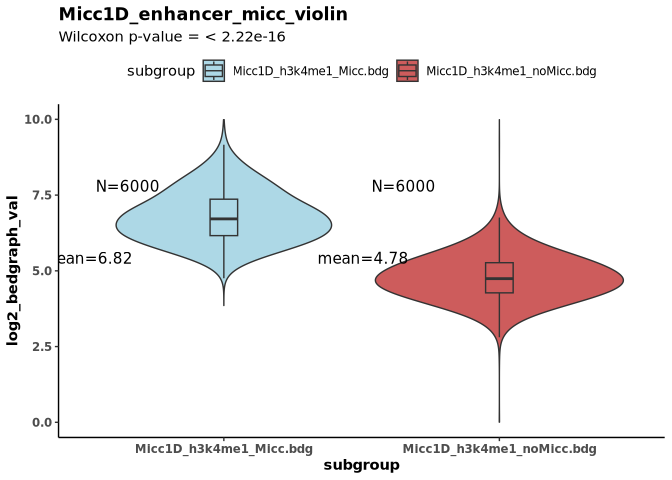
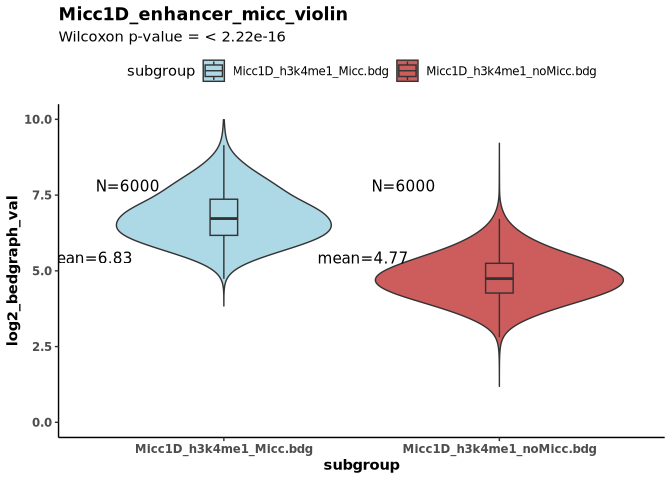
update

diff --git a/figs/enhancer_Micc_noMicc/Micc1D_enhancer_micc_violin.md b/figs/enhancer_Micc_noMicc/Micc1D_enhancer_micc_violin.md
@@ -1,7 +1,7 @@
 Micc1D_enhancer_micc_violin
 ================
 <yemingxie@gmail.com>
-Thu Aug 21 11:05:04 2025
+Thu Aug 21 11:28:13 2025
 
 ``` r
 knitr::opts_chunk$set(echo = TRUE)
@@ -28,9 +28,7 @@ library(tidyr)
 library(ggsignif)
 npg_colors <- pal_npg()(10)
 
-args = commandArgs(trailingOnly=TRUE)
 file_path=getwd()
-
 setwd('/research/xieyeming1/proj_2025/MICC_paper/genometube/MICC-seq/figs/enhancer_Micc_noMicc')
 plot_title='Micc1D_enhancer_micc_violin'
 y_axis='log2_bedgraph_val'
@@ -54,13 +52,13 @@ wilcox_result <- wilcox.test(in_file_2$V4, in_file_1$V4,
 head(all_data)
 ```
 
-    ##         V1        V2        V3       V4                subgroup feature_val
-    ## 7012  chr6 150311118 150311691 172.3333 Micc1D_h3k4me1_Micc.bdg    7.437405
-    ## 822   chr1 200285984 200286297  96.0000 Micc1D_h3k4me1_Micc.bdg    6.599913
-    ## 2896 chr16  22824939  22825255 135.5000 Micc1D_h3k4me1_Micc.bdg    7.092757
-    ## 3488 chr17  42787860  42788095  50.0000 Micc1D_h3k4me1_Micc.bdg    5.672425
-    ## 3846 chr18  46479462  46479694 159.0000 Micc1D_h3k4me1_Micc.bdg    7.321928
-    ## 719   chr1 157108902 157109151  77.0000 Micc1D_h3k4me1_Micc.bdg    6.285402
+    ##         V1        V2        V3        V4                subgroup feature_val
+    ## 1109  chr1 235795932 235796377 146.60000 Micc1D_h3k4me1_Micc.bdg    7.205549
+    ## 4963  chr2 161850379 161851019 128.12500 Micc1D_h3k4me1_Micc.bdg    7.012625
+    ## 2393 chr14  73603903  73604427  67.33333 Micc1D_h3k4me1_Micc.bdg    6.094518
+    ## 5383 chr21  43188281  43188541 146.25000 Micc1D_h3k4me1_Micc.bdg    7.202124
+    ## 156   chr1  28413730  28413956  68.33333 Micc1D_h3k4me1_Micc.bdg    6.115477
+    ## 5701  chr3  12525167  12525603 347.66667 Micc1D_h3k4me1_Micc.bdg    8.445705
 
 ``` r
 summ <- all_data %>%
@@ -74,8 +72,8 @@ summ
     ## # A tibble: 2 × 5
     ##   subgroup                      n  mean max_val    sd
     ##   <chr>                     <int> <dbl>   <dbl> <dbl>
-    ## 1 Micc1D_h3k4me1_Micc.bdg    6000  6.82    15.6 0.930
-    ## 2 Micc1D_h3k4me1_noMicc.bdg  6000  4.78    11.7 0.753
+    ## 1 Micc1D_h3k4me1_Micc.bdg    6000  6.83    15.2 0.951
+    ## 2 Micc1D_h3k4me1_noMicc.bdg  6000  4.77    10.0 0.738
 
 ``` r
 levels(factor(all_data$subgroup))
@@ -104,7 +102,7 @@ p1<-ggplot(all_data, aes(x=subgroup, y=feature_val, fill=subgroup)) +
 print(p1)
 ```
 
-    ## Warning: Removed 30 rows containing non-finite outside the scale range
+    ## Warning: Removed 40 rows containing non-finite outside the scale range
     ## (`stat_signif()`).
 
     ## Warning: Removed 3 rows containing missing values or values outside the scale
@@ -117,7 +115,22 @@ pdf(paste0(plot_title,'.pdf'))
 print(p1)
 ```
 
-    ## Warning: Removed 30 rows containing non-finite outside the scale range (`stat_signif()`).
+    ## Warning: Removed 40 rows containing non-finite outside the scale range (`stat_signif()`).
+    ## Removed 3 rows containing missing values or values outside the scale range (`geom_signif()`).
+
+``` r
+dev.off()
+```
+
+    ## png 
+    ##   2
+
+``` r
+png(paste0(plot_title,'.png'))
+print(p1)
+```
+
+    ## Warning: Removed 40 rows containing non-finite outside the scale range (`stat_signif()`).
     ## Removed 3 rows containing missing values or values outside the scale range (`geom_signif()`).
 
 ``` r

diff --git a/figs/enhancer_Micc_noMicc/RPII_enhancer_micc_violin.md b/figs/enhancer_Micc_noMicc/RPII_enhancer_micc_violin.md
@@ -1,7 +1,5 @@
-RPII_enhancer_micc_violin
-================
 <yemingxie@gmail.com>
-Thu Aug 21 11:08:13 2025
+Thu Aug 21 11:30:09 2025
 
 ``` r
 knitr::opts_chunk$set(echo = TRUE)
@@ -54,13 +52,13 @@ wilcox_result <- wilcox.test(in_file_2$V4, in_file_1$V4,
 head(all_data)
 ```
 
-    ##         V1       V2       V3        V4              subgroup feature_val
-    ## 5478 chr22 26880587 26880992  3.800000 RPII_h3k4me1_Micc.bdg    3.800000
-    ## 3640 chr17 65713093 65713398  5.915385 RPII_h3k4me1_Micc.bdg    5.915385
-    ## 4803  chr2 66306868 66307381  1.900000 RPII_h3k4me1_Micc.bdg    1.900000
-    ## 2894 chr16 22386623 22386858  8.320000 RPII_h3k4me1_Micc.bdg    8.320000
-    ## 5773  chr3 49157418 49157663 12.363636 RPII_h3k4me1_Micc.bdg   12.363636
-    ## 2796 chr16   777481   777738 13.980000 RPII_h3k4me1_Micc.bdg   13.980000
+    ##         V1        V2        V3        V4              subgroup feature_val
+    ## 1182 chr10   5933137   5933364  0.000000 RPII_h3k4me1_Micc.bdg    0.000000
+    ## 3717 chr17  77750180  77750802  8.826667 RPII_h3k4me1_Micc.bdg    8.826667
+    ## 1622 chr11  64001446  64001684  6.820000 RPII_h3k4me1_Micc.bdg    6.820000
+    ## 6415  chr5 180046470 180046723  7.144444 RPII_h3k4me1_Micc.bdg    7.144444
+    ## 3698 chr17  74666785  74667559 19.304444 RPII_h3k4me1_Micc.bdg   19.304444
+    ## 1241 chr10  27389657  27390086  8.808889 RPII_h3k4me1_Micc.bdg    8.808889
 
 ``` r
 summ <- all_data %>%
@@ -74,8 +72,8 @@ summ
     ## # A tibble: 2 × 5
     ##   subgroup                    n  mean max_val    sd
     ##   <chr>                   <int> <dbl>   <dbl> <dbl>
-    ## 1 RPII_h3k4me1_Micc.bdg    6000  8.84    671. 21.9 
-    ## 2 RPII_h3k4me1_noMicc.bdg  6000  2.4     139.  3.67
+    ## 1 RPII_h3k4me1_Micc.bdg    6000  9.31  1774.  35.4 
+    ## 2 RPII_h3k4me1_noMicc.bdg  6000  2.34    86.4  3.14
 
 ``` r
 levels(factor(all_data$subgroup))
@@ -104,7 +102,7 @@ p1<-ggplot(all_data, aes(x=subgroup, y=feature_val, fill=subgroup)) +
 print(p1)
 ```
 
-    ## Warning: Removed 425 rows containing non-finite outside the scale range
+    ## Warning: Removed 418 rows containing non-finite outside the scale range
     ## (`stat_signif()`).
 
     ## Warning: Removed 3 rows containing missing values or values outside the scale
@@ -117,7 +115,22 @@ pdf(paste0(plot_title,'.pdf'))
 print(p1)
 ```
 
-    ## Warning: Removed 425 rows containing non-finite outside the scale range (`stat_signif()`).
+    ## Warning: Removed 418 rows containing non-finite outside the scale range (`stat_signif()`).
+    ## Removed 3 rows containing missing values or values outside the scale range (`geom_signif()`).
+
+``` r
+dev.off()
+```
+
+    ## png 
+    ##   2
+
+``` r
+png(paste0(plot_title,'.png'))
+print(p1)
+```
+
+    ## Warning: Removed 418 rows containing non-finite outside the scale range (`stat_signif()`).
     ## Removed 3 rows containing missing values or values outside the scale range (`geom_signif()`).
 
 ``` r
